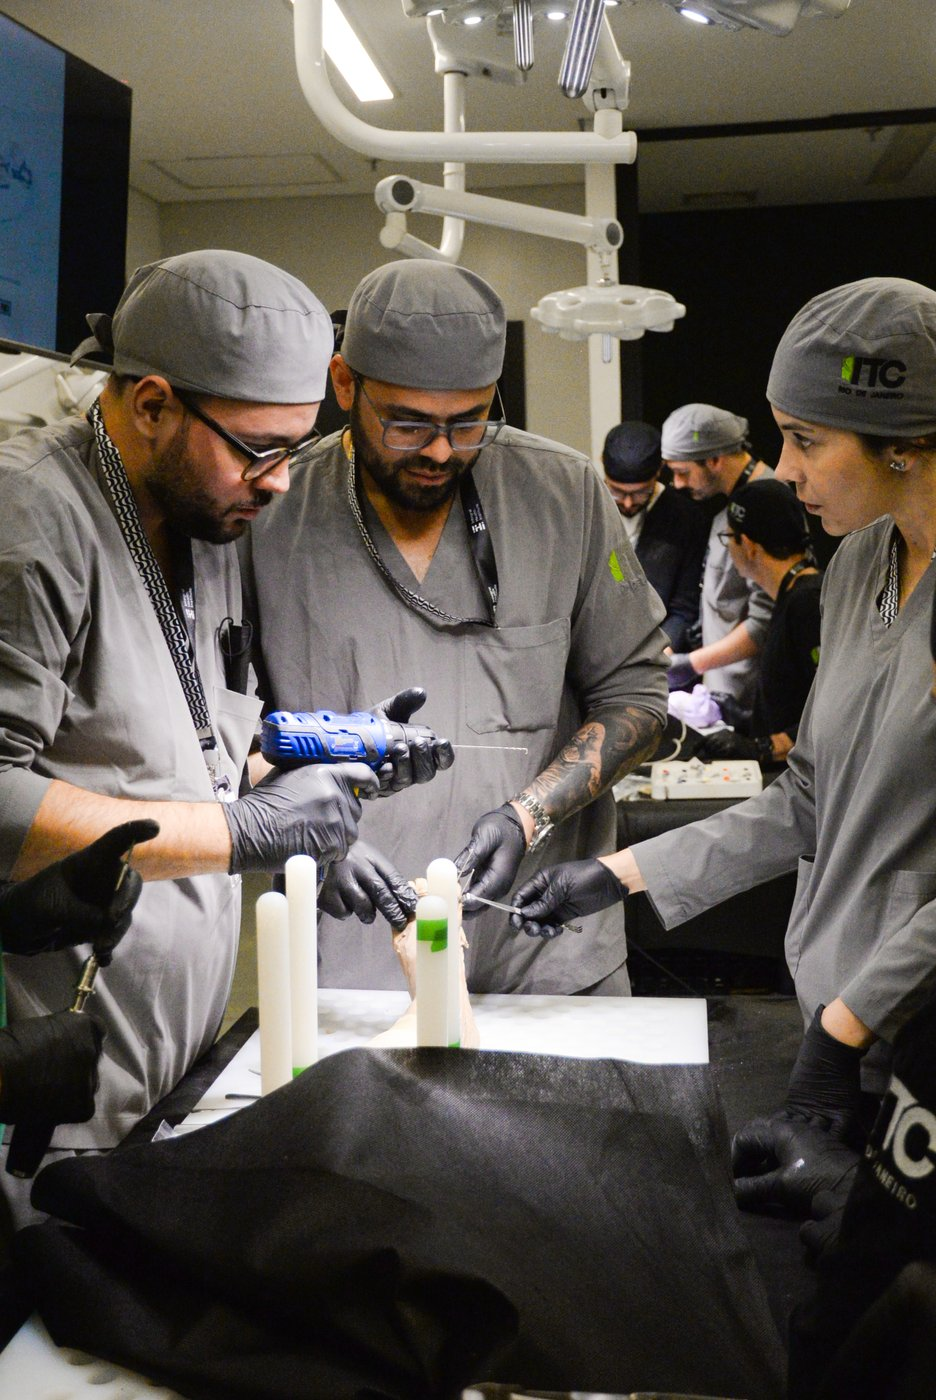
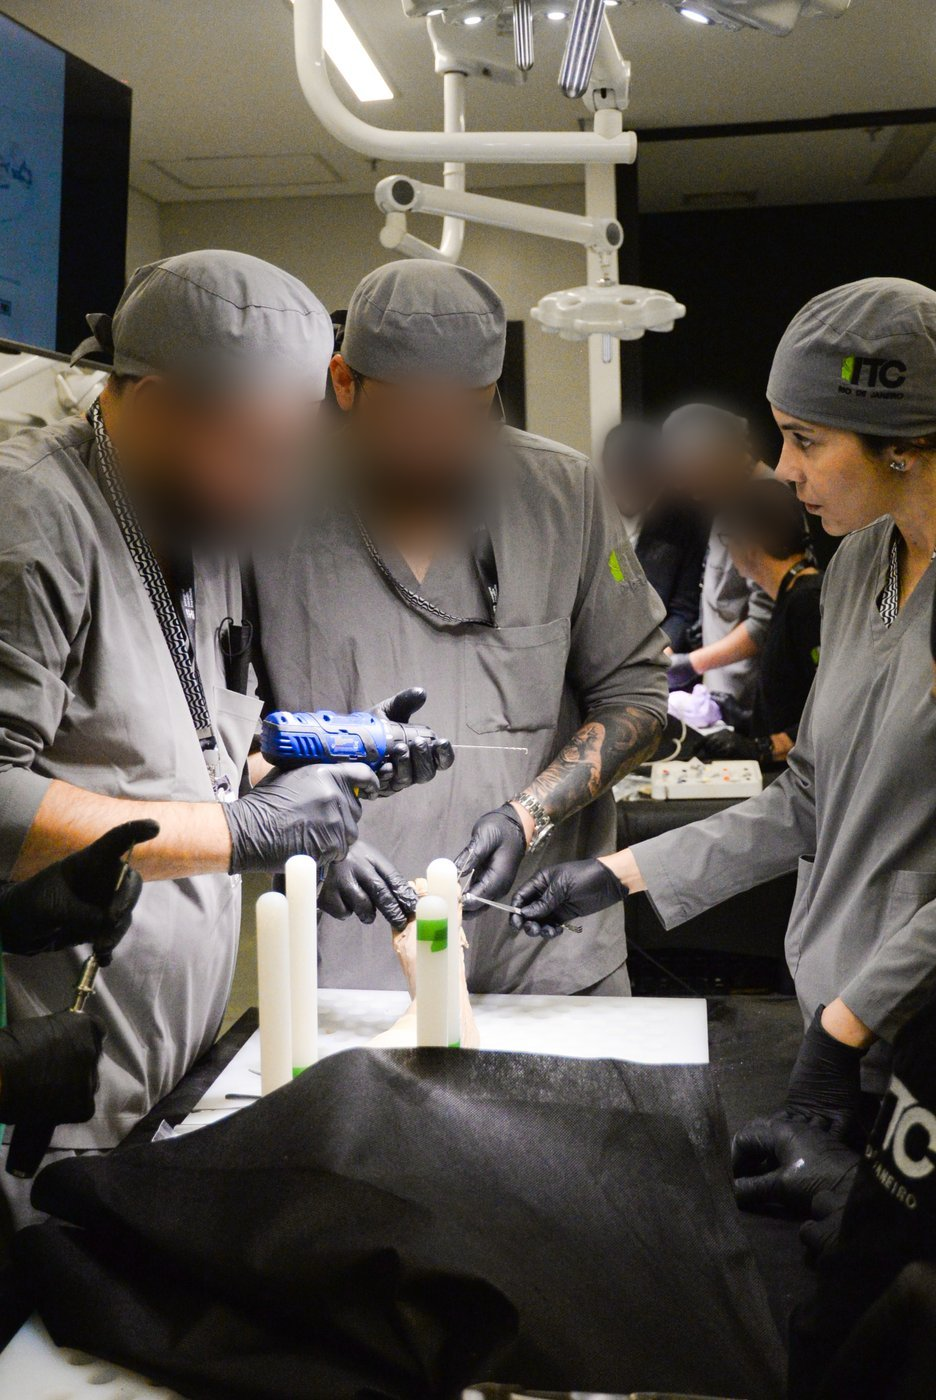
Borra o rosto dos colegas nas fotos da galeria

Changed region(s): [[0.0929, 0.2457, 0.5577, 0.43], [0.6197, 0.2764, 0.8675, 0.3993]]

diff --git a/index.html b/index.html
@@ -554,8 +554,8 @@ footer .wrap{padding-block:1.6rem 2.2rem;font-size:.84rem;color:var(--ink-3);dis
 <section class="gallery" id="galeria" aria-label="Fotos da Dra. Larissa"><div class="wrap">
   <figure class="photo g4 rv"><img alt="Dra. Larissa em treino de cirurgia do pé, trabalhando numa peça anatômica" src="img/web/perfil.webp?v=fc46f13f" width="1102" height="1400" loading="lazy"><figcaption>Treino</figcaption></figure>
   <figure class="photo g1 rv"><img alt="Dra. Larissa operando um pé no centro cirúrgico" src="img/web/foto1.webp?v=780f5e98" width="1050" height="1400" loading="lazy"><figcaption>Cirurgia</figcaption></figure>
-  <figure class="photo g2 rv"><img alt="Dra. Larissa operando ao lado de outro cirurgião" src="img/web/foto2.webp?v=8058aac2" width="1050" height="1400" loading="lazy"><figcaption>Cirurgia</figcaption></figure>
-  <figure class="photo g3 rv"><img alt="Dra. Larissa com colegas em curso prático no ITC, Rio de Janeiro" src="img/web/foto3.webp?v=59062944" width="936" height="1400" loading="lazy"><figcaption>Curso · ITC Rio</figcaption></figure>
+  <figure class="photo g2 rv"><img alt="Dra. Larissa operando ao lado de outro cirurgião" src="img/web/foto2.webp?v=337ebae6" width="1050" height="1400" loading="lazy"><figcaption>Cirurgia</figcaption></figure>
+  <figure class="photo g3 rv"><img alt="Dra. Larissa com colegas em curso prático no ITC, Rio de Janeiro" src="img/web/foto3.webp?v=2b69cd59" width="936" height="1400" loading="lazy"><figcaption>Curso · ITC Rio</figcaption></figure>
 </div></section>
 
 <section class="faq" id="perguntas"><div class="wrap">
